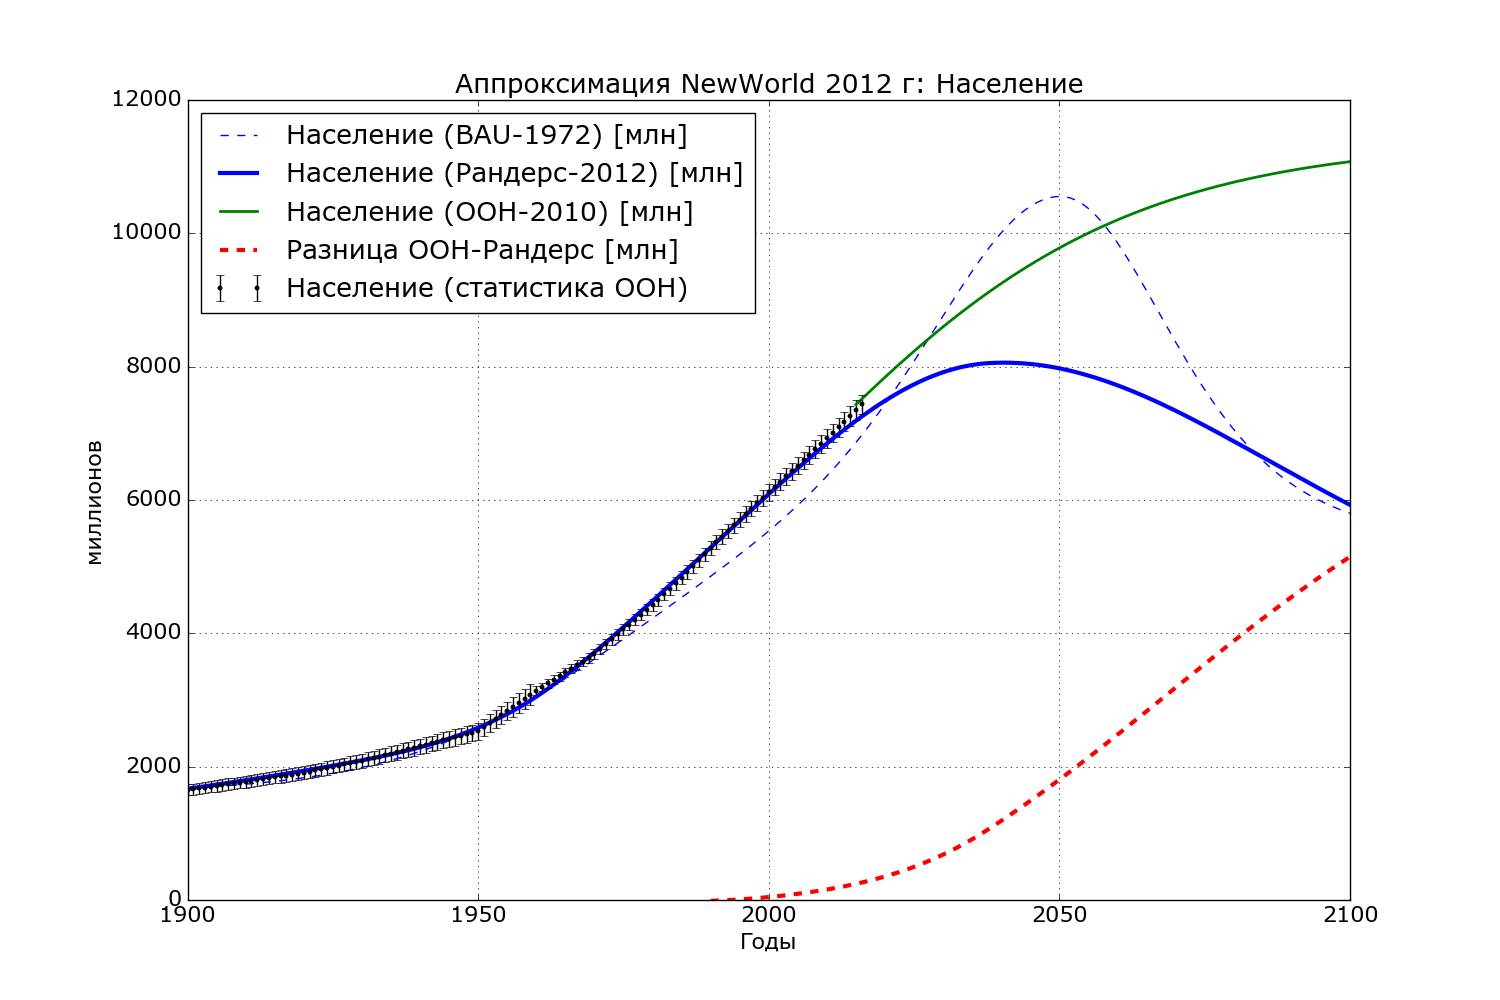
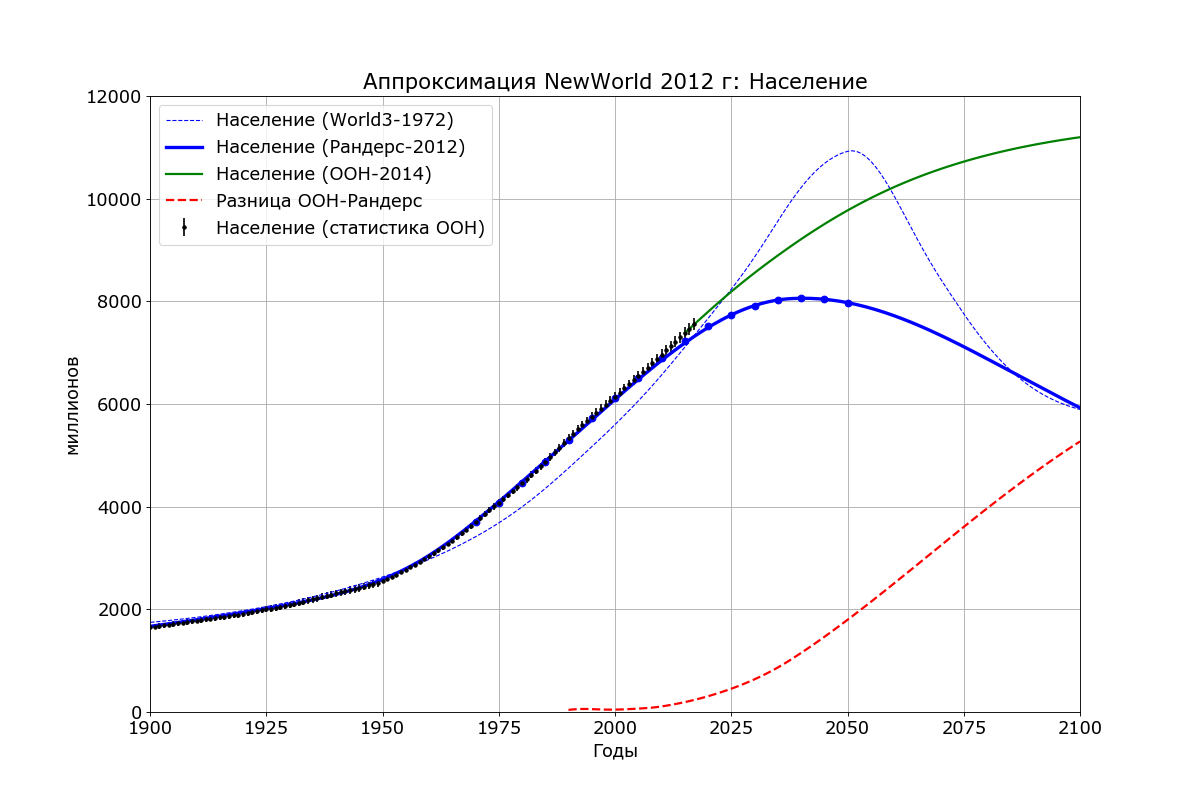
Latest UN estimates (2014)

diff --git a/Chapter 07/Population.py b/Chapter 07/Population.py
@@ -6,26 +6,58 @@ from Utilities import *
 # Peak_Value - peak population value
 # L_Slope - left slope
 # R_Slope - right slope
-# Additionaly creates three approximate UN solutions using Bathtub and Sigmoid functions 
+# Additionaly creates three approximate UN solutions using linear combinations of Sigmoid and Hubbert functions 
 #
 class Population:
     def __init__( self, Peak_Year=2057, Peak_Value=8000, L_Slope=0.028, R_Slope=0.080):
-        self._Model0 = Bathtub( -650,0.0025,2200,0.004,30,260,4250)
-        self._Model1 = Hubbert( Peak_Year, L_Slope, R_Slope, Peak_Value)
-        self._Model2 = Hubbert( 1950, 0.2, 0.2, -250)
-        self._Model3 = Hubbert( 2000, 0.1, 0.2, 150)
-        self._Model4 = Hubbert( 1970, 0.3, 0.3, -50)
-        self._Model5 = Hubbert( 1870, 0.1, 0.05, 120)
-        self._Model6 = Hubbert( 1930, 0.2, 0.2, -50)
+        self._Model0 = Linear_Combo()
+        self._Model0.Wavelets += [Bathtub( -650,0.0025,2200,0.004,30,260,4250)]
+        self._Model0.Wavelets += [Hubbert( Peak_Year, L_Slope, R_Slope, Peak_Value)]
+        self._Model0.Wavelets += [Hubbert( 1950, 0.2, 0.2, -250)]
+        self._Model0.Wavelets += [Hubbert( 2000, 0.1, 0.2, 150)]
+        self._Model0.Wavelets += [Hubbert( 1970, 0.3, 0.3, -50)]
+        self._Model0.Wavelets += [Hubbert( 1870, 0.1, 0.05, 120)]
+        self._Model0.Wavelets += [Hubbert( 1930, 0.2, 0.2, -50)]
         self.Name = "PyWorld 2017"
         self.Calibration_Year, self.Calibration_Total = Load_Calibration( "Population_Calibration.csv", "Year", "Population")
         self.Calibration_Year, self.Calibration_Yerr = Load_Calibration( "Population_Calibration.csv", "Year", "Yerror")
-        self.UN_Low = Bathtub( 1997, 0.0370, 2100, 0.030, 1390, 11500, 1900)
+        self.UN_Low = Linear_Combo()
         self.UN_Low.Name = "UN Low Case"
-        self.UN_Medium = Sigmoid( 2003, 0.0350, 1390, 11500)
+        self.UN_Low.Wavelets += [ Sigmoid( x0=2002.0, s0=0.03300, left=980.000, right=11600.000, shift=0.000)]
+        self.UN_Low.Wavelets += [ Hubbert( x0=1855.5, s0=0.07523, s1=0.10878, peak=182.819, shift=0.000)]
+        self.UN_Low.Wavelets += [ Hubbert( x0=1903.0, s0=0.06400, s1=0.06400, peak=353.000, shift=0.000)]
+        self.UN_Low.Wavelets += [ Hubbert( x0=1951.0, s0=0.17975, s1=0.21109, peak=-118.000, shift=0.000)]
+        self.UN_Low.Wavelets += [ Hubbert( x0=1964.0, s0=0.30994, s1=0.34868, peak=-69.500, shift=0.000)]
+        self.UN_Low.Wavelets += [ Hubbert( x0=1992.0, s0=0.30994, s1=0.31987, peak=79.000, shift=0.000)]
+        self.UN_Low.Wavelets += [ Hubbert( x0=2010.0, s0=0.36475, s1=0.13208, peak=-32.500, shift=0.000)]
+        self.UN_Low.Wavelets += [ Hubbert( x0=2037.8, s0=0.16307, s1=0.10332, peak=-31.025, shift=0.000)]
+        self.UN_Low.Wavelets += [ Sigmoid( x0=2085.0, s0=0.04452, left=0.000, right=-6116.317, shift=0.000)]
+        self.UN_Low.Wavelets += [ Hubbert( x0=2017.0, s0=0.16677, s1=0.20335, peak=155.000, shift=0.000)]
+        self.UN_Low.Wavelets += [ Hubbert( x0=2062.0, s0=0.11881, s1=0.12884, peak=-128.000, shift=0.000)]
+        self.UN_Medium = Linear_Combo()
         self.UN_Medium.Name = "UN Medium Case"
-        self.UN_High = Sigmoid( 2043, 0.0240, 1000, 20000)
+        self.UN_Medium.Wavelets += [ Sigmoid( x0=2002.0, s0=0.03300, left=980.000, right=11600.000, shift=0.000)]
+        self.UN_Medium.Wavelets += [ Hubbert( x0=1855.5, s0=0.07523, s1=0.10878, peak=182.819, shift=0.000)]
+        self.UN_Medium.Wavelets += [ Hubbert( x0=1903.0, s0=0.06400, s1=0.06400, peak=353.000, shift=0.000)]
+        self.UN_Medium.Wavelets += [ Hubbert( x0=1951.0, s0=0.17975, s1=0.21109, peak=-118.000, shift=0.000)]
+        self.UN_Medium.Wavelets += [ Hubbert( x0=1964.0, s0=0.30994, s1=0.34868, peak=-69.500, shift=0.000)]
+        self.UN_Medium.Wavelets += [ Hubbert( x0=1992.0, s0=0.30994, s1=0.31987, peak=79.000, shift=0.000)]
+        self.UN_Medium.Wavelets += [ Hubbert( x0=2010.0, s0=0.36475, s1=0.13208, peak=-32.500, shift=0.000)]
+        self.UN_Medium.Wavelets += [ Hubbert( x0=2037.8, s0=0.16307, s1=0.10332, peak=-31.025, shift=0.000)]
+        self.UN_High = Linear_Combo()
         self.UN_High.Name = "UN High Case"
+        self.UN_High.Wavelets += [ Sigmoid( x0=2002.000, s0=0.03300, left=980.000, right=11600.000, shift=0.000)]
+        self.UN_High.Wavelets += [ Hubbert( x0=1855.500, s0=0.07523, s1=0.10878, peak=182.819, shift=0.000)]
+        self.UN_High.Wavelets += [ Hubbert( x0=1903.000, s0=0.06400, s1=0.06400, peak=353.000, shift=0.000)]
+        self.UN_High.Wavelets += [ Hubbert( x0=1951.000, s0=0.17975, s1=0.21109, peak=-118.000, shift=0.000)]
+        self.UN_High.Wavelets += [ Hubbert( x0=1964.000, s0=0.30994, s1=0.34868, peak=-69.500, shift=0.000)]
+        self.UN_High.Wavelets += [ Hubbert( x0=1992.000, s0=0.30994, s1=0.31987, peak=79.000, shift=0.000)]
+        self.UN_High.Wavelets += [ Hubbert( x0=2010.000, s0=0.36475, s1=0.13208, peak=-32.500, shift=0.000)]
+        self.UN_High.Wavelets += [ Hubbert( x0=2037.800, s0=0.16307, s1=0.10332, peak=-31.025, shift=0.000)]
+        self.UN_High.Wavelets += [ Sigmoid( x0=2085.000, s0=0.05121, left=0.000, right=8218.938, shift=0.000)]
+        self.UN_High.Wavelets += [ Hubbert( x0=2017.000, s0=0.22877, s1=0.27615, peak=-116.000, shift=0.000)]
+        self.UN_High.Wavelets += [ Hubbert( x0=2056.000, s0=0.13014, s1=0.20680, peak=80.975, shift=0.000)]
+        self.UN_High.Wavelets += [ Hubbert( x0=2088.000, s0=0.14967, s1=0.20132, peak=-171.671, shift=0.000)]
         self.Velhurst_Analytical = Sigmoid( 1997, 0.0370, 1390, 10500)
         self.Velhurst_Analytical.Name = "Velhurst Analytical"
         self.Kapitsa_Analytical = KapitsaIntegral( 2003, 176e3, 44)
@@ -43,19 +75,12 @@ class Population:
     def Solve( self, t0):
         self.Solution_Year = t0
         self.Solution_Total = self._Model0.GetVector( t0)
-        self.Solution_Total += self._Model1.GetVector( t0)
         return self.Solution_Total
     #
     # Computes the approximation
     #
     def Compute( self, t):
         tmp = self._Model0.Compute( t)
-        tmp += self._Model1.Compute( t)
-        tmp += self._Model2.Compute( t)
-        tmp += self._Model3.Compute( t)
-        tmp += self._Model4.Compute( t)
-        tmp += self._Model5.Compute( t)
-        tmp += self._Model6.Compute( t)
         return tmp
 
 #

diff --git a/Chapter 07/Predictions.py b/Chapter 07/Predictions.py
@@ -1,11 +1,61 @@
 from Population import *
 from Resources import *
 
+class _Interpolation:
+    def __init__( self):
+        return
+    def Solve( self, t):
+        self.Time = t
+        return
+    def _Interpolate_Function(self, wavelets):
+        tmp = wavelets[0].GetVector(self.Time)
+        for i in range( 1, len(wavelets)):
+            tmp += wavelets[i].GetVector(self.Time)
+        return tmp
+    def _Calibrate_Function(self, func, filename, timename, varname, start_t, stop_t, baseline=0.0):
+        calibrationT, calibrationV = Load_Calibration( filename, timename, varname);
+        calibrationV -= baseline
+        norm = 0.0
+        count = 0.0
+        for i in range( len(self.Time)):
+            t = self.Time[i]
+            if t < start_t: continue
+            if t > stop_t: continue
+            v = func[i]
+            for j in range(len(calibrationT)):
+                if calibrationT[j] != t: continue
+                norm += calibrationV[j] / v
+                count += 1.0
+                break
+        if count < 1.0:
+            print( "Calibration {:s} is out of range: {:g} to {:g}".format( varname, start_t, stop_t))
+            return func
+        norm /= count
+        print( "Normalized {:s} from {:g} to {:g} = {:.5f}".format( varname, start_t, stop_t, norm))
+        tmp = np.array( func)
+        for i in range( len(self.Time)):
+            tmp[i] *= norm
+        return tmp + baseline
+    def _Calibrate_To_First_Value(self, func, varname):
+        norm = 1.0 / func[0]
+        print( "Normalized {:s} to first value {:g} in {:g}".format( varname, func[0], self.Time[0]))
+        tmp = np.array( func)
+        for i in range( len(self.Time)):
+            tmp[i] *= norm
+        return tmp
+    def _Correct_To_Actual(self, func, varname):
+        norm = 1.0 / func[0]
+        print( "Normalized {:s} to first value {:g} in {:g}".format( varname, func[0], self.Time[0]))
+        tmp = np.array( func)
+        for i in range( len(self.Time)):
+            tmp[i] *= norm
+        return tmp
+
 #
 # Феноменологическая интерполяция кривых модели BAU 1972
 # "Limits to Growth", 1972, график 35 на странице 124
 #
-class Interpolation_BAU_1972:
+class Interpolation_BAU_1972( _Interpolation):
     def __init__( self):
         self._Population_Functions = [Sigmoid( x0=1986.000, s0=0.03059, left=0.091, right=0.360, shift=0.000)]
         self._Population_Functions += [Hubbert( x0=2050.000, s0=0.05345, s1=0.09477, peak=0.360, shift=0.000)]
@@ -71,53 +121,17 @@ class Interpolation_BAU_1972:
         self.Services = self.Services_PC * tmp_Pop
         self.CO2 = self.Pollution_U*600 + 305
         return
-    def _Interpolate_Function(self, wavelets):
-        tmp = wavelets[0].GetVector(self.Time)
-        for i in range( 1, len(wavelets)):
-            tmp += wavelets[i].GetVector(self.Time)
-        return tmp
-    def _Calibrate_Function(self, func, filename, timename, varname, start_t, stop_t, baseline=0.0):
-        calibrationT, calibrationV = Load_Calibration( filename, timename, varname);
-        calibrationV -= baseline
-        norm = 0.0
-        count = 0.0
-        for i in range( len(self.Time)):
-            t = self.Time[i]
-            if t < start_t: continue
-            if t > stop_t: continue
-            v = func[i]
-            for j in range(len(calibrationT)):
-                if calibrationT[j] != t: continue
-                norm += calibrationV[j] / v
-                count += 1.0
-                break
-        if count < 1.0:
-            print( "Calibration {:s} is out of range: {:g} to {:g}".format( varname, start_t, stop_t))
-            return func
-        norm /= count
-        print( "Normalized {:s} from {:g} to {:g} = {:.5f}".format( varname, start_t, stop_t, norm))
-        tmp = np.array( func)
-        for i in range( len(self.Time)):
-            tmp[i] *= norm
-        return tmp + baseline
-    def _Calibrate_To_First_Value(self, func, varname):
-        norm = 1.0 / func[0]
-        print( "Normalized {:s} to first value {:g} in {:g}".format( varname, func[0], self.Time[0]))
-        tmp = np.array( func)
-        for i in range( len(self.Time)):
-            tmp[i] *= norm
-        return tmp
 
 #
 # Феноменологическая интерполяция кривых модели BAU 2012
 # Веб-страница http://www.2052.info/
 # Версия 7 ноября 2014 г
 #
-class Interpolation_BAU_2012:
+class Interpolation_BAU_2012( _Interpolation):
     def __init__( self):
-        self.Population_Function_1 = Sigmoid( 1950, 0.030, 1150, 3600)
-        self.Population_Function_2 = Hubbert( 2038, 0.036, 0.028, 4620)
-        self.Population_Function_3 = Hubbert( 1955, 0.065, 0.080, -520)
+        self._Population_Functions = [Sigmoid( 1950, 0.030, 1150, 3600)]
+        self._Population_Functions += [Hubbert( 2038, 0.036, 0.028, 4620)]
+        self._Population_Functions += [Hubbert( 1955, 0.065, 0.080, -520)]
         
         self.Coal_Function_1 = Hubbert( 2032, 0.058, 0.054, 5000)
         self.Coal_Function_2 = Hubbert( 1925, 0.06, 0.05, 850)
@@ -145,9 +159,7 @@ class Interpolation_BAU_2012:
         return
     def Solve( self, t):
         self.Time = t
-        self.Population = self.Population_Function_1.GetVector( t)
-        self.Population += self.Population_Function_2.GetVector( t)
-        self.Population += self.Population_Function_3.GetVector( t)
+        self.Population = self._Interpolate_Function( self._Population_Functions)
 
         self.Coal = self.Coal_Function_1.GetVector( t)
         self.Coal += self.Coal_Function_2.GetVector( t)

diff --git a/Chapter 07/Prediction_03_Randers_2012.py b/Chapter 07/Prediction_03_Randers_2012.py
@@ -1,9 +1,7 @@
-from Population import *
-from Predictions import Interpolation_BAU_1972 
-from Predictions import Interpolation_BAU_2012 
+from Predictions import * 
 
 T = np.linspace( 1890, 2100, 211)
-Time_Ran, Population_Ran = Load_Calibration( "Randers_2052.csv", "Year", "Population")
+Time_Ran, Population_Ran = Load_Calibration( ".\Data\Randers_2052.csv", "Year", "Population")
 
 P0 = Population()
 UN_Med = P0.UN_Medium.GetVector( T)
@@ -15,18 +13,15 @@ BAU_2012.Solve(T)
 Difference = UN_Med - BAU_2012.Population 
 
 for i in range( len( BAU_2012.Time)):
-    print( BAU_2012.Time[i], BAU_2012.Population[i])
+    print( "{:g}\t{:.1f}".format( BAU_2012.Time[i], BAU_2012.Population[i]))
 
-Prepare_Russian_Font()
 fig = plt.figure( figsize=(15,10))
-
-plt.plot( BAU_1972.Time, BAU_1972.Population, "--", lw=1, color="b", label="Население (BAU-1972) [млн]")
-plt.plot( BAU_2012.Time, BAU_2012.Population, "-", lw=3, color="b", label="Население (Рандерс-2012) [млн]")
-plt.plot( T[125:], UN_Med[125:], "-", lw=2, color="g", label="Население (ООН-2010) [млн]")
-plt.plot( T[100:], Difference[100:], "--", lw=3, color="r", label="Разница ООН-Рандерс [млн]")
-
-#plt.errorbar( Time_Ran, Population_Ran, yerr=Population_Ran*0.03, fmt='.', color="r", label="Население (Рандерс-2012) [млн]")
-plt.errorbar( P0.Calibration_Year, P0.Calibration_Total, yerr=P0.Calibration_Delta, fmt='.', color="k", label="Население (статистика ООН)")
+plt.plot( BAU_1972.Time, BAU_1972.Population, "--", lw=1, color="b", label="Население (World3-1972)")
+plt.plot( BAU_2012.Time, BAU_2012.Population, "-", lw=3, color="b", label="Население (Рандерс-2012)")
+plt.plot( T[125:], UN_Med[125:], "-", lw=2, color="g", label="Население (ООН-2014)")
+plt.plot( T[100:], Difference[100:], "--", lw=2, color="r", label="Разница ООН-Рандерс")
+plt.errorbar( Time_Ran, Population_Ran, fmt='o', color="b")
+plt.errorbar( P0.Calibration_Year, P0.Calibration_Total, yerr=P0.Calibration_Yerr, fmt='.', color="k", label="Население (статистика ООН)")
 
 plt.xlabel("Годы")
 plt.xlim( 1900, 2100)

diff --git a/Chapter 07/Utilities.py b/Chapter 07/Utilities.py
@@ -86,7 +86,11 @@ class Sigmoid( Control_Curve):
     
     # computation
     def Compute( self, x):
-        e = np.exp( -self.S0*(x-self.X0))
+        x -= self.X0
+        x *= -self.S0
+        if x < -500.0: return self.Right + self.Shift
+        if x > 500.0: return self.Left + self.Shift
+        e = np.exp( x)
         y = self.Left + (self.Right-self.Left)/(1.0+e) + self.Shift
         return y
 
@@ -158,9 +162,11 @@ class Hubbert( Control_Curve):
     # computation
     def Compute( self, x):
         x -= self.X0
-        if x < 0.0: x *= self.S0
-        else: x *= self.S1
-        e = np.exp( -x)
+        if x < 0.0: x *= -self.S0
+        else: x *= -self.S1
+        if x < -500.0: return self.Shift
+        if x > 500.0: return self.Shift
+        e = np.exp( x)
         y = 4.0 * self.Peak * e / (1+e) / (1+e) + self.Shift
         return y
 
@@ -196,7 +202,10 @@ class Gauss( Control_Curve):
         if x < 0.0: s = self.S0
         else: s = self.S1
         x *= x
-        e = np.exp( -s*x)
+        x *= -s
+        if x < -500.0: return self.Shift
+        if x > 500.0: return self.Shift
+        e = np.exp(x)
         y = self.Peak * e + self.Shift
         return y
 
@@ -387,6 +396,29 @@ def Load_Calibration( file_Name, var1_Name, var2_Name):
     #print( var1)
     #print( var2)
     return np.array( var1), np.array( var2)
+
+#
+# Provides interpolation as a linear combination
+# of several Control_Curve functions
+#
+class Linear_Combo (Control_Curve):
+    def __init__( self):
+        self.Name = "Linear Combination"
+        self.Wavelets = []
+        return
+
+    # computation
+    def Compute( self, x):
+        tmp = 0.0
+        for w in self.Wavelets:
+            tmp += w.Compute( x)
+        return tmp
+
+    # plots data, together with optional external data
+    def Plot( self, x1, x2, file_Name = "", coplot_x = -1, coplot_y = -1, no_screen = False):
+        sy = "{0:g} function(s)".format( len(self.Wavelets))
+        Control_Curve.Plot( self, x1, x2, sy, "y", file_Name, coplot_x, coplot_y, no_screen)
+        return
 
 #
 # Makes sure matplotlib can write in Russian

diff --git a/Chapter 07/Prediction_02_BAU_1972.py b/Chapter 07/Prediction_02_BAU_1972.py
@@ -37,7 +37,7 @@ ax3.plot( T0, BAU_1972.Food, "-", lw=2, color="g", label="Продовольст
 ax3.plot( T0, BAU_1972.Services, "-", lw=2, color="m", label="Услуг")
 ax3.plot( [2007,2007], [0,40], "--", lw=1, color="k")
 ax3.plot( [2015,2015], [0,40], "-.", lw=1, color="k")
-ax3.errorbar( FAO_Year, FAO_Net_Food/850, fmt='.', color="k", label="Статистика (ФАО)")
+ax3.errorbar( FAO_Year, FAO_Net_Food/1000, fmt='.', color="k", label="Статистика (ФАО)")
 ax3.set_title( "Производство (1900 год = 1)")
 ax3.grid( True)
 ax3.set_xlim( 1900, 2100)
@@ -51,7 +51,7 @@ ax4.set_title( "Уровень СО₂ (ppb)")
 ax4.grid( True)
 ax4.set_xlim( 1900, 2100)
 ax4.set_ylim( 0, 0.6)
-ax4.legend(loc=0)
+ax4.legend(loc=3)
 
 plt.savefig( ".\\Graphs\\figure_07_02.png")
 fig.show()
